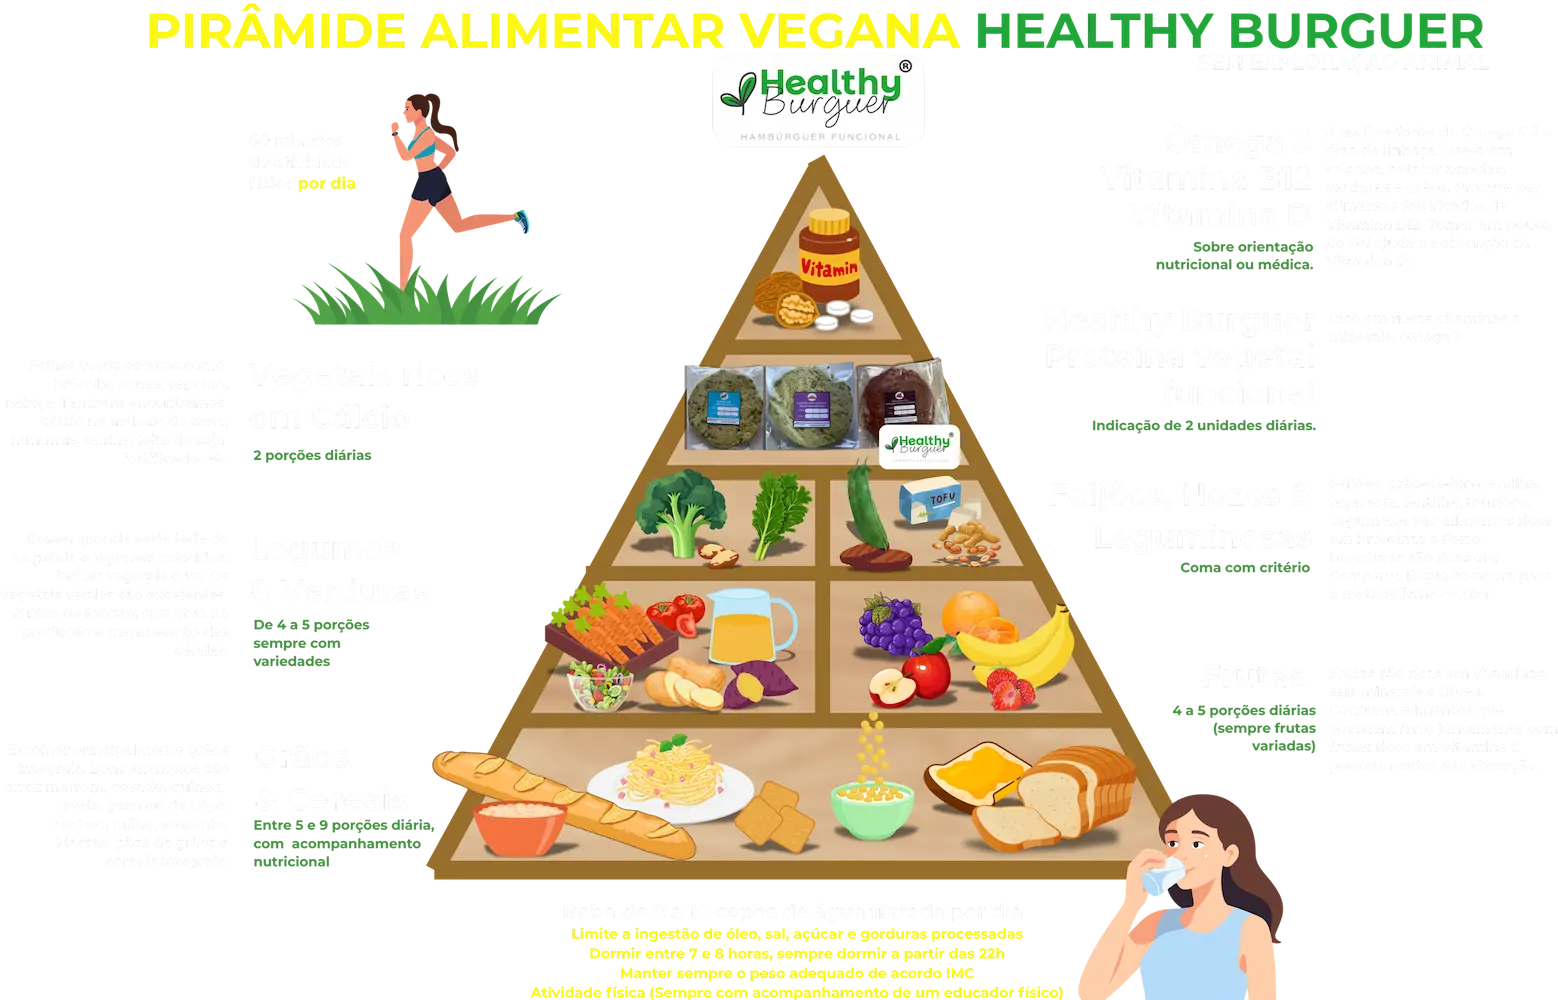
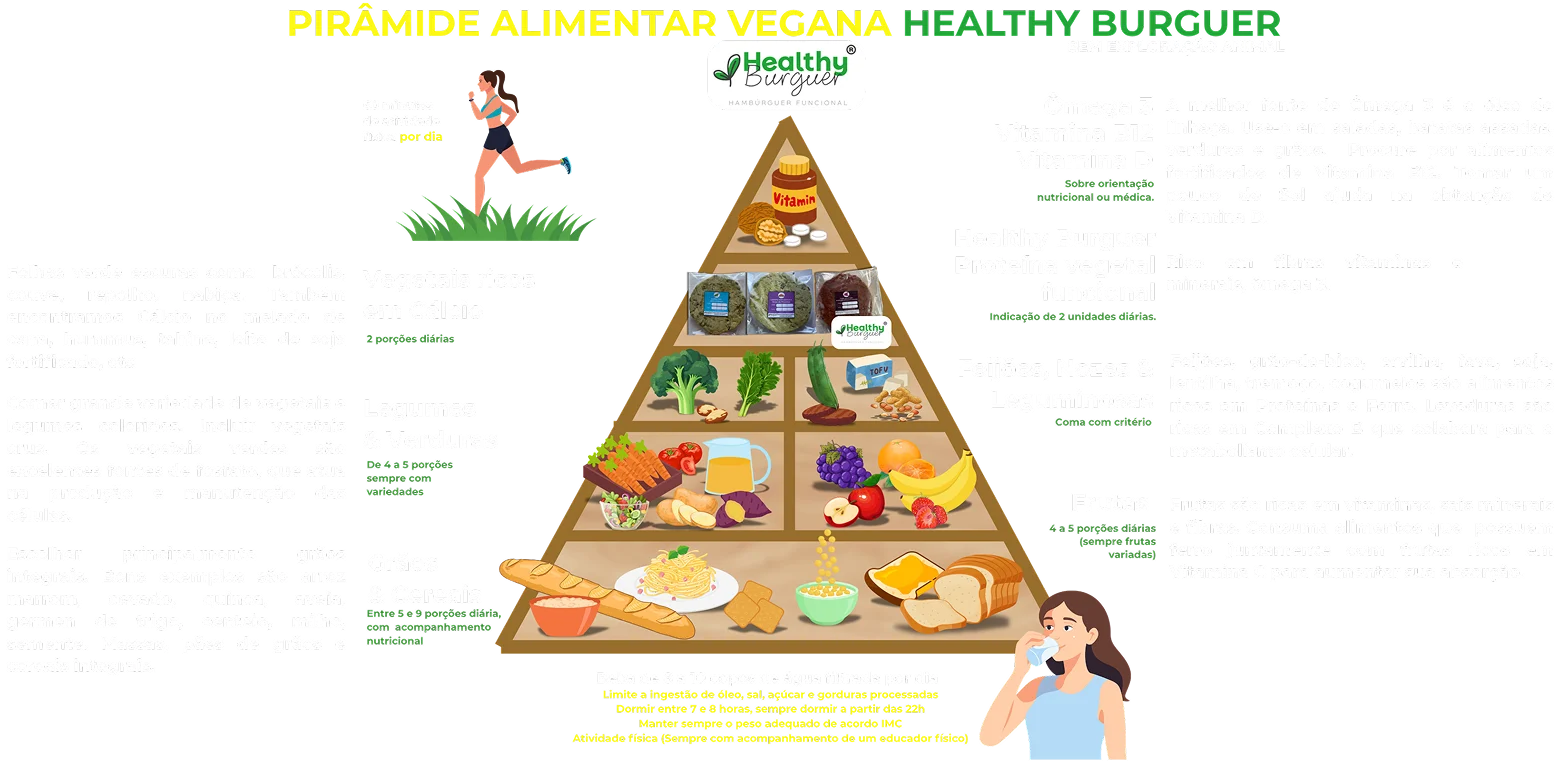
pirâmide-att

diff --git a/css/veg-vet.css b/css/veg-vet.css
@@ -200,7 +200,7 @@
         margin: 0 auto;
         height: auto;
         width: auto;
-        max-width: 90%;
+        max-width: 100%;
         display: block;;
     }
 
